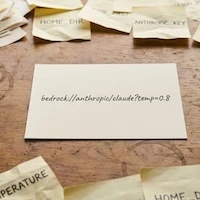
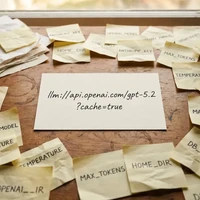
Restore exact llm:// string across connection string image family

diff --git a/src/scripts/hero-formats.ts b/src/scripts/hero-formats.ts
@@ -10,6 +10,7 @@ const root = process.cwd();
 const postsRoot = resolve(root, "src/content/posts");
 const write = process.argv.includes("--write");
 const sourceOverrides: Record<string, string> = {
+  // Corrected composition retains llm://api.openai.com/gpt-5.2?cache=true in full.
   "2026-01-30--llm-connection-strings": "square-fullsize.webp",
   "2026-01-26--securing-clawdbot-tailscale": "hero-full.webp",
   "2024-08-29--handling-international-numbers-and-currency": "currency-banner-pic.webp",

diff --git a/output/imagegen/llm-connection-string-fix/prompts.md b/output/imagegen/llm-connection-string-fix/prompts.md
@@ -1,0 +1,15 @@
+# LLM connection string image correction
+
+Tool: built-in imagegen, editing the existing desk photographs.
+
+Exact text restored from the previous `hero-wide.webp`:
+
+```text
+llm://api.openai.com/gpt-5.2?cache=true
+```
+
+Square prompt: Preserve the wooden desk, sticky notes, lighting, materials and photographic style. Replace the entire handwritten text on the central card with the exact string above, with two forward slashes after `llm:`. Enlarge the card so the full string is readable with padding and no clipped characters. Wrap at the question mark: `llm://api.openai.com/gpt-5.2` followed by `?cache=true`. Output a square photograph.
+
+Landscape prompt: Preserve the desk, sticky notes, pencils, palette, lighting, photographic style and landscape framing. Replace the bedrock connection string with the exact string above. Enlarge the central card and text, retain padding, and keep all essential text within central 1.8:1 and 2.25:1 crops. Wrap at the question mark if needed. Output a landscape photograph.
+
+Final files live beside `src/content/posts/2026-01-30--llm-connection-strings/index.mdx`. The square was independently edited, not cropped from the landscape. Sharp resized and encoded the approved images as WebP; social variants use the corrected landscape at 1200 by 628. `square-fullsize.webp` is the corrected source used by the existing hero-format regeneration script.
